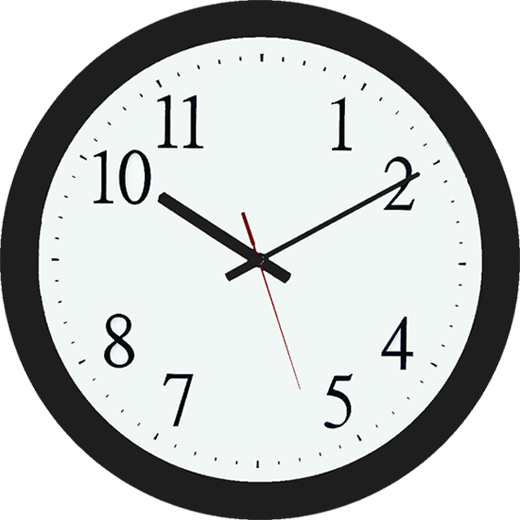
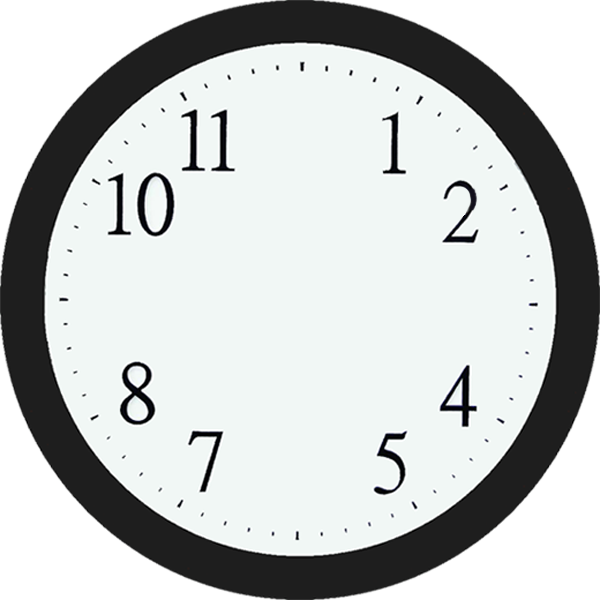
Clock added in experience

diff --git a/source/stylesheets/site.css.scss b/source/stylesheets/site.css.scss
@@ -75,16 +75,27 @@ b{
 }
 #dialogue1 #text{
   width: 400px;
+  height: 350px;
   padding-top: 50px;
 }
 #dialogue2 #text{
   width: 400px;
+  height: 350px;
   padding-top: 50px;
 }
 #dialogue3 #text{
-  padding-top: 40px;
-  width: 330px;
+  padding-top: 25px;
+  width: 300px;
   font-size: 20px;
+}
+#dialogue3 #default{
+  font-size: 26px;
+}
+#dialogue3 #upc_text{
+  font-size: 26px;
+}
+#dialogue3 #mibweb_text{
+  font-size: 23px;
 }
 #thought #text{
   width: 500px;
@@ -92,20 +103,23 @@ b{
 }
 #dialogue1{
   background-image: url('../images/dialogue1.png');
+  margin-left:30px;
   width: 450px;
   height: 400px;
   float: left;
   text-align: center;
 }
 #dialogue3{
-  background-image: url('../images/dialogue3.png');
-  width: 410px;
+  width: 350px;
   height: 350px;
-  float: left;
+  float: right;
   text-align: center;
+  background-image: url('../images/dialogue3.png');
+  border-radius: 20px;
 }
 #dialogue2{
   background-image: url('../images/dialogue2.png');
+  margin-right: 30px;
   width: 450px;
   height: 400px;
   float: right;
@@ -144,36 +158,36 @@ b{
   width: 85px;
   height: 45px;
 }
-#thought .item{
+#clock .item{
   position: relative;
 }
 #upc.item{
   width: 85px;
   height: 85px;
   float: right;
-  right: 133px;
-  top: 320px;
+  right: 83px;
+  top: 405px;
 }
 #imesmes.item{
   float: left;
   width: 160px;
   height: 65px;
-  left: 180px;
-  top: 30px;
+  left: 130px;
+  top: 80px;
 }
 #metropolia.item{
   float: right;
   width: 77px;
   height: 80px;
-  right: 50px;
-  top: 185px;
+  right: -30px;
+  top: 275px;
 }
 #mibweb.item{
   float: left;
   width: 140px;
   height: 35px;
-  top: 192px;
-  left: -100px;
+  top: 282px;
+  left: -190px;
 }
 .hidden{
   display: none;
@@ -181,13 +195,17 @@ b{
 #welove{
   font-size: 30px;
   margin-top: 40px;
-  margin-left: 90px;
   margin-right: 15px;
   font-weight: bold;
   float:left;
 }
+#welove_container{
+  margin: 0 auto 0 auto;
+  width: 180px;
+  height: 100px;
+}
 #rails_image{
-  float: left;
+  float: right;
   margin-top: 10px;
 }
 #blackboard{
@@ -225,6 +243,7 @@ b{
   width: 264px;
   height: 60px;
   top: 90px;
+  right: 23px;
 }
 #rubygems.element{
   top: 160px;
@@ -341,4 +360,37 @@ span.default_tv{
   height: 150px;
   float: right;
   padding-left: 15px;
+}
+#myself1{
+  width: 960px;
+  float: left;
+  margin: -100px 330px 0 0;
+}
+#clock{
+  float: left;
+  position: relative;
+  width: 600px;
+  height: 600px;
+  margin: 20px auto 0 auto;
+  background-image: url('../images/clock.png');
+  list-style: none;
+}
+#sec, #min, #hour {
+  position: absolute;
+  width: 30px;
+  height: 600px;
+  top: 0px;
+  left: 285px;
+}
+#sec {
+  background: url('../images/sechand.png');
+  z-index: 3;
+}
+#min {
+  background: url('../images/minhand.png');
+  z-index: 2;
+}
+#hour {
+  background: url('../images/hourhand.png');
+  z-index: 1;
 }

diff --git a/source/javascripts/clock.js b/source/javascripts/clock.js
@@ -1,0 +1,32 @@
+$(document).ready(function() {
+
+      setInterval( function() {
+      var seconds = new Date().getSeconds();
+      var sdegree = seconds * 6;
+      var srotate = "rotate(" + sdegree + "deg)";
+
+      $("#sec").css({"-moz-transform" : srotate, "-webkit-transform" : srotate});
+
+      }, 1000 );
+
+      setInterval( function() {
+      var hours = new Date().getHours();
+      var mins = new Date().getMinutes();
+      var hdegree = hours * 30 + (mins / 2);
+      var hrotate = "rotate(" + hdegree + "deg)";
+
+      $("#hour").css({"-moz-transform" : hrotate, "-webkit-transform" : hrotate});
+
+      }, 1000 );
+
+      setInterval( function() {
+      var mins = new Date().getMinutes();
+      var mdegree = mins * 6;
+      var mrotate = "rotate(" + mdegree + "deg)";
+
+      $("#min").css({"-moz-transform" : mrotate, "-webkit-transform" : mrotate});
+
+      }, 1000 );
+
+});
+

diff --git a/config.rb b/config.rb
@@ -1,4 +1,5 @@
 page '/index.html', :layout => 'index_layout'
+activate :relative_assets
 
 ### 
 # Compass
